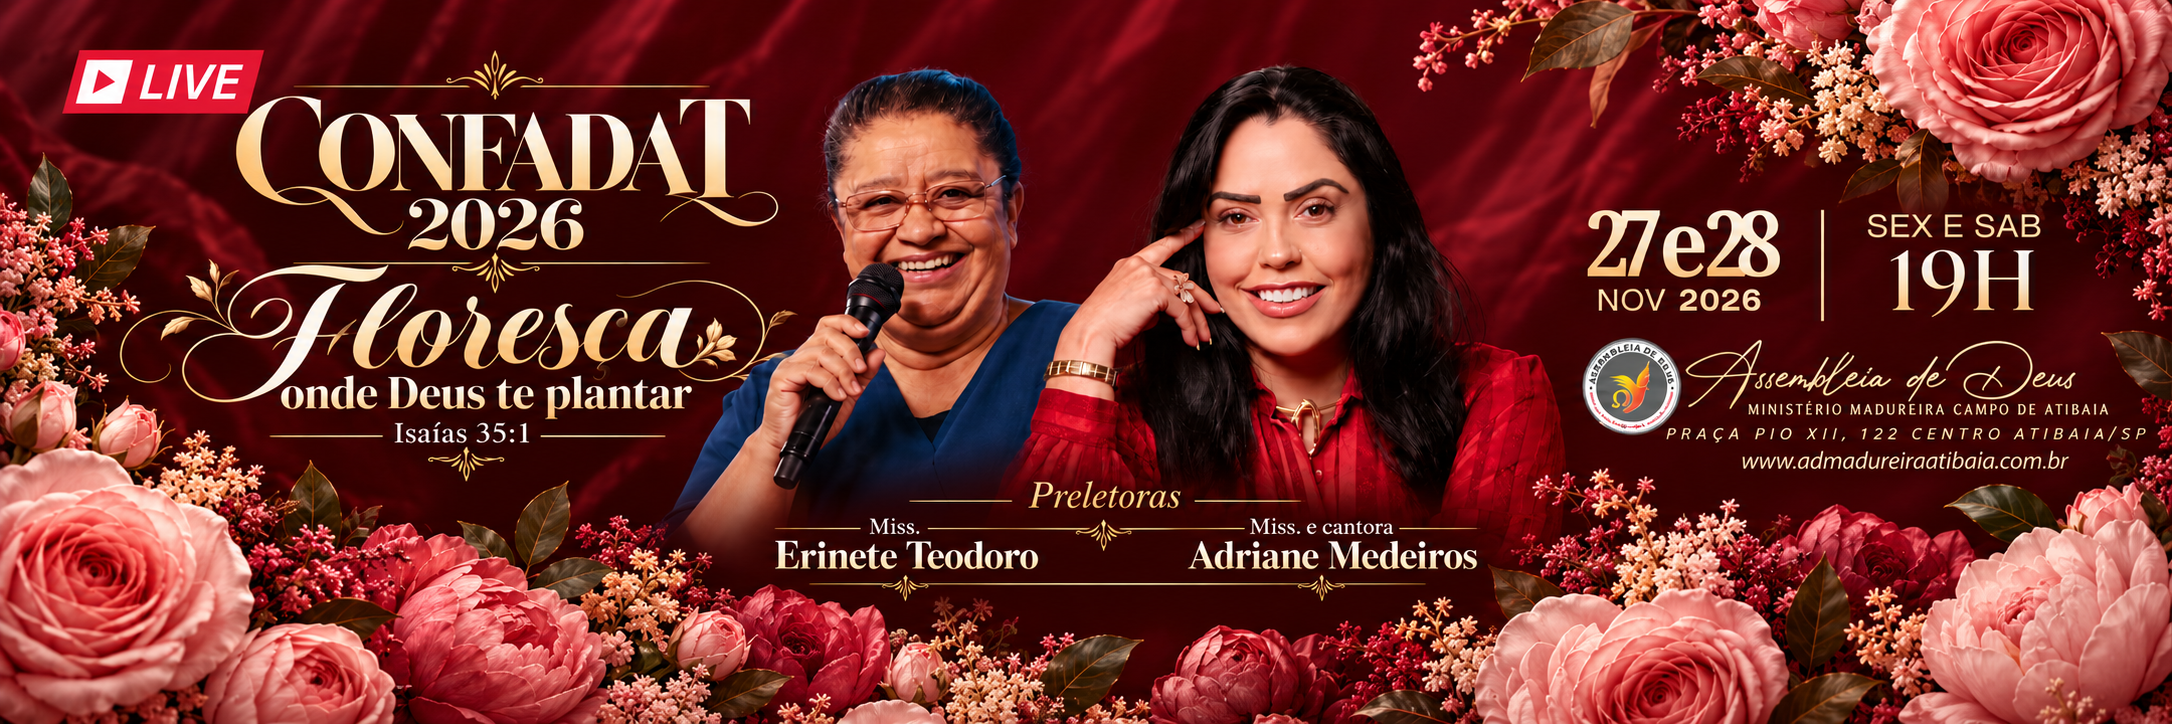
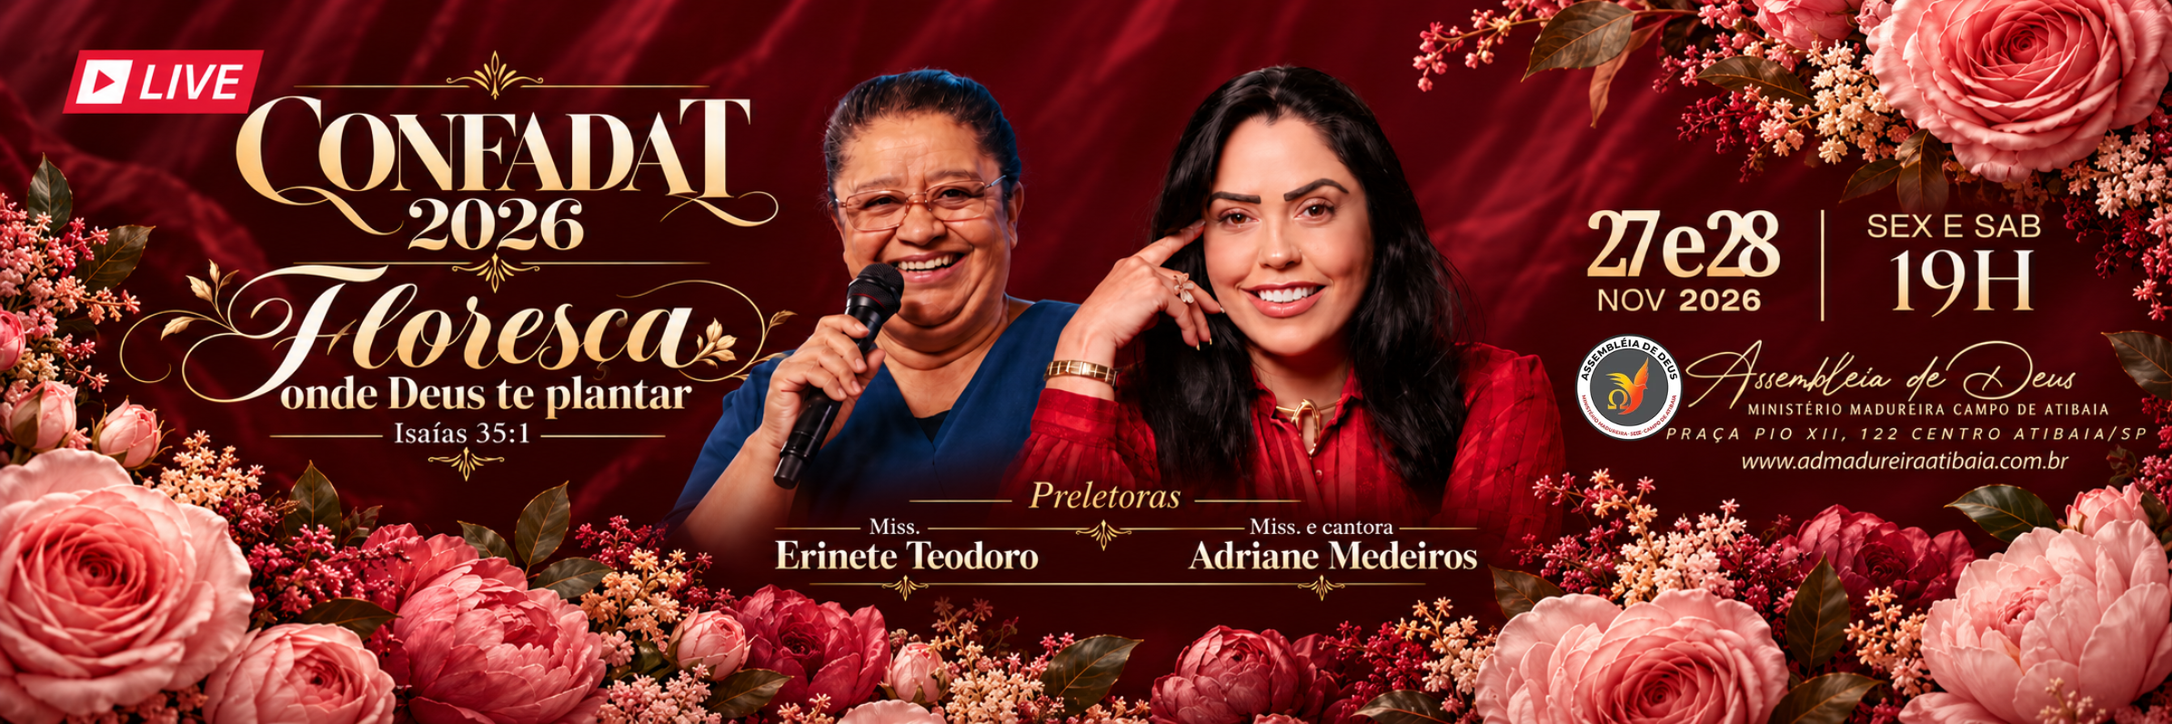
feat(eventos): CONFADAT 2026 com a preletora de cada noite e as artes de 22/10
As artes de 22/10 (feed e capa do YouTube) dividem as noites: sexta,
27/11, Missionária e cantora Adriane Medeiros; sábado, 28/11,
Missionária Erinete Teodoro. Ordem confirmada para o site.

- confadat-2026.ts: cada noite ganha a preletora; a lista de
  preletoras segue a ordem das noites, com o dia de cada uma.
- Página: a preletora aparece no card de cada noite e no card dela;
  o JSON-LD leva a preletora em cada subEvent.
- Agenda: a descrição de 27/11 e de 28/11 diz quem ministra na noite.
- Home: o subtítulo do slide diz quem prega na sexta e no sábado.
- Artes: feed novo (com as duas preletoras e as datas, os pastores
  presidentes e o selo LIVE) e a prévia leve do WhatsApp gerada dele;
  banner da home com o selo da igreja corrigido, redimensionado de
  2400x800 para 2172x724, a medida do carrossel.

O banner ainda traz "SEX E SAB" sem acento e não divide as noites;
foi a arte escolhida para a faixa.

diff --git a/src/data/confadat-2026.ts b/src/data/confadat-2026.ts
@@ -18,7 +18,7 @@ export const CONFADAT_2026 = {
   tituloSeo:
     "CONFADAT 2026 — Floresça onde Deus te plantar · 27 e 28 de novembro | AD Madureira Atibaia",
   descricaoSeo:
-    "CONFADAT 2026, o Congresso das Irmãs do Campo de Atibaia: 27 e 28 de novembro de 2026, às 19h, na Igreja Sede, em Atibaia/SP. Tema: Floresça onde Deus te plantar (Isaías 35:1). Preletoras: Missionária Erinete Teodoro e Missionária Adriane Medeiros. Com transmissão ao vivo.",
+    "CONFADAT 2026, o Congresso das Irmãs do Campo de Atibaia: 27 e 28 de novembro de 2026, às 19h, na Igreja Sede, em Atibaia/SP. Tema: Floresça onde Deus te plantar (Isaías 35:1). Preletoras: Missionária Adriane Medeiros na sexta, 27, e Missionária Erinete Teodoro no sábado, 28. Com transmissão ao vivo.",
   descricaoTopo:
     "Duas noites de Palavra, louvor e oração preparadas pela CONFADAT, o departamento feminino do Campo de Atibaia, na Igreja Sede. Venha e traga uma irmã: há um lugar preparado para você.",
   baseBiblica: "Isaías 35:1",
@@ -45,6 +45,7 @@ export const CONFADAT_2026 = {
       horario: "19h",
       inicioIso: "2026-11-27T19:00:00-03:00",
       fimIso: "2026-11-27T21:30:00-03:00",
+      preletora: "Missionária Adriane Medeiros",
     },
     {
       noite: "2ª noite",
@@ -53,25 +54,28 @@ export const CONFADAT_2026 = {
       horario: "19h",
       inicioIso: "2026-11-28T19:00:00-03:00",
       fimIso: "2026-11-28T21:30:00-03:00",
+      preletora: "Missionária Erinete Teodoro",
     },
   ],
-  // As artes listam as duas preletoras sem dividir por noite. Não atribuir
-  // noite a nenhuma delas sem confirmação da liderança.
+  // Uma preletora por noite, como nas artes de 22/10 (feed e capa do
+  // YouTube); ordem confirmada pelo Amaro para o site. Na ordem das noites.
   preletoras: [
-    {
-      nome: "Missionária Erinete Teodoro",
-      papel: "Preletora",
-      instagram: {
-        usuario: "@erineteteodoro_oficial",
-        href: "https://www.instagram.com/erineteteodoro_oficial/",
-      },
-    },
     {
       nome: "Missionária Adriane Medeiros",
       papel: "Preletora e cantora",
+      quando: "Sexta, 27 de novembro",
       instagram: {
         usuario: "@adrianemedeirosoficial",
         href: "https://www.instagram.com/adrianemedeirosoficial/",
+      },
+    },
+    {
+      nome: "Missionária Erinete Teodoro",
+      papel: "Preletora",
+      quando: "Sábado, 28 de novembro",
+      instagram: {
+        usuario: "@erineteteodoro_oficial",
+        href: "https://www.instagram.com/erineteteodoro_oficial/",
       },
     },
   ],
@@ -140,8 +144,8 @@ export const CONFADAT_2026 = {
     "congresso de mulheres Assembleia de Deus",
     "Floresça onde Deus te plantar",
     "Isaías 35:1",
-    "Erinete Teodoro",
     "Adriane Medeiros",
+    "Erinete Teodoro",
     "AD Madureira Atibaia",
   ],
 } as const;

diff --git a/src/app/eventos/confadat-2026/page.tsx b/src/app/eventos/confadat-2026/page.tsx
@@ -58,8 +58,10 @@ function InfoItem({ label, value }: { label: string; value: string }) {
 export default function Confadat2026Page() {
   const canonicalUrl = resolveSiteUrl(confadat.path);
   const eventEnded = isEventEnded();
-  const preletorasNomes = confadat.preletoras.map((preletora) => preletora.nome).join(" e ");
-  const arteAlt = `Arte oficial do ${confadat.titulo}: ${confadat.tema}, ${confadat.baseBiblica}. Preletoras: ${preletorasNomes}. ${confadat.data}, sexta e sábado, às ${confadat.horario}.`;
+  const preletorasPorNoite = confadat.noites
+    .map((noite) => `${noite.preletora} (${noite.diaSemana.toLowerCase()})`)
+    .join(" e ");
+  const arteAlt = `Arte oficial do ${confadat.titulo}: ${confadat.tema}, ${confadat.baseBiblica}. Preletoras: ${preletorasPorNoite}. ${confadat.data}, às ${confadat.horario}.`;
   const sede = {
     "@type": "Place",
     name: confadat.local,
@@ -105,6 +107,7 @@ export default function Confadat2026Page() {
       startDate: noite.inicioIso,
       endDate: noite.fimIso,
       location: sede,
+      performer: { "@type": "Person", name: noite.preletora },
     })),
   };
 
@@ -278,6 +281,10 @@ export default function Confadat2026Page() {
                   {noite.data}
                 </h3>
                 <dl className="mt-5 grid gap-4 text-sm text-[#555] sm:grid-cols-2">
+                  <div className="sm:col-span-2">
+                    <dt className="font-semibold text-[#212121]">Preletora</dt>
+                    <dd>{noite.preletora}</dd>
+                  </div>
                   <div>
                     <dt className="font-semibold text-[#212121]">Horário</dt>
                     <dd>{noite.horario}</dd>
@@ -336,7 +343,7 @@ export default function Confadat2026Page() {
                 className="rounded-[1.5rem] border border-black/6 bg-[#faf8f3] p-5 shadow-sm"
               >
                 <p className="text-[0.68rem] font-bold tracking-[0.2em] text-text-accent uppercase">
-                  {preletora.papel}
+                  {preletora.papel} · {preletora.quando}
                 </p>
                 <h3 className="mt-1.5 font-acme text-xl tracking-wide text-[#212121]">
                   {preletora.nome}

diff --git a/src/data/eventos-especiais.ts b/src/data/eventos-especiais.ts
@@ -954,7 +954,7 @@ export function getEventosEspeciais2026(local: string): MesAgendaBase[] {
           horario: confadat.horarioAgenda,
           descricao: [
             `Primeira noite do CONFADAT 2026, o Congresso das Irmãs do Campo de Atibaia, com o tema “${confadat.tema}”, a partir de ${confadat.baseBiblica}.`,
-            "As preletoras do congresso são a Missionária Erinete Teodoro e a Missionária e cantora Adriane Medeiros, sob a liderança do Pr. Zacarias Bernardes Félix e da Pra. Anna Alzira Félix, pastores presidentes. As duas noites terão transmissão ao vivo.",
+            "Nesta noite a Palavra será ministrada pela Missionária e cantora Adriane Medeiros. No sábado, 28, a preletora é a Missionária Erinete Teodoro. O congresso é presidido pelo Pr. Zacarias Bernardes Félix e pela Pra. Anna Alzira Félix, pastores presidentes, e as duas noites terão transmissão ao vivo.",
           ].join("\n\n"),
           convite:
             "Venha e traga uma irmã. Na página oficial do congresso estão o tema, as preletoras e a programação das duas noites.",
@@ -980,7 +980,7 @@ export function getEventosEspeciais2026(local: string): MesAgendaBase[] {
           horario: confadat.horarioAgenda,
           descricao: [
             `Segunda e última noite do CONFADAT 2026, o Congresso das Irmãs do Campo de Atibaia, com o tema “${confadat.tema}”, a partir de ${confadat.baseBiblica}.`,
-            "As preletoras do congresso são a Missionária Erinete Teodoro e a Missionária e cantora Adriane Medeiros, sob a liderança do Pr. Zacarias Bernardes Félix e da Pra. Anna Alzira Félix, pastores presidentes. As duas noites terão transmissão ao vivo.",
+            "Nesta noite a Palavra será ministrada pela Missionária Erinete Teodoro. Na sexta, 27, ministra a Missionária e cantora Adriane Medeiros. O congresso é presidido pelo Pr. Zacarias Bernardes Félix e pela Pra. Anna Alzira Félix, pastores presidentes, e as duas noites terão transmissão ao vivo.",
           ].join("\n\n"),
           convite:
             "Venha e traga uma irmã. Na página oficial do congresso estão o tema, as preletoras e a programação das duas noites.",

diff --git a/src/data/__tests__/confadat-2026.test.ts b/src/data/__tests__/confadat-2026.test.ts
@@ -64,6 +64,22 @@ describe("CONFADAT_2026", () => {
     expect(Date.parse(primeira.fimIso)).toBeLessThan(Date.parse(segunda.inicioIso));
   });
 
+  it("anuncia uma preletora por noite, como nas artes de 22/10", () => {
+    expect(confadat.noites.map((noite) => noite.preletora)).toEqual([
+      "Missionária Adriane Medeiros",
+      "Missionária Erinete Teodoro",
+    ]);
+    expect(confadat.preletoras.map((preletora) => preletora.nome)).toEqual(
+      confadat.noites.map((noite) => noite.preletora)
+    );
+    expect(
+      getEventoBySlug("confadat-congresso-das-irmas-27-11-2026")?.descricao
+    ).toContain("Nesta noite a Palavra será ministrada pela Missionária e cantora Adriane Medeiros");
+    expect(
+      getEventoBySlug("confadat-congresso-das-irmas-28-11-2026")?.descricao
+    ).toContain("Nesta noite a Palavra será ministrada pela Missionária Erinete Teodoro");
+  });
+
   it.each([
     "confadat-congresso-das-irmas-27-11-2026",
     "confadat-congresso-das-irmas-28-11-2026",

diff --git a/src/data/hero.ts b/src/data/hero.ts
@@ -212,7 +212,7 @@ export function getHeroEventos(): HeroEvento[] {
     // onde o carrossel corta as laterais da faixa, o card traz tema e datas.
     {
       titulo: confadat.titulo,
-      subtitulo: `${confadat.tema} — 27 e 28 de novembro, às ${confadat.horario}, na Igreja Sede. Preletoras: Missionária Erinete Teodoro e Missionária Adriane Medeiros.`,
+      subtitulo: `${confadat.tema} — 27 e 28 de novembro, às ${confadat.horario}, na Igreja Sede. Sexta, Missionária Adriane Medeiros; sábado, Missionária Erinete Teodoro.`,
       alt: `Banner do ${confadat.titulo} — ${confadat.tema} — 27 e 28 de novembro, sexta e sábado, às ${confadat.horario}`,
       imagem: confadat.artes.banner,
       href: confadat.path,
